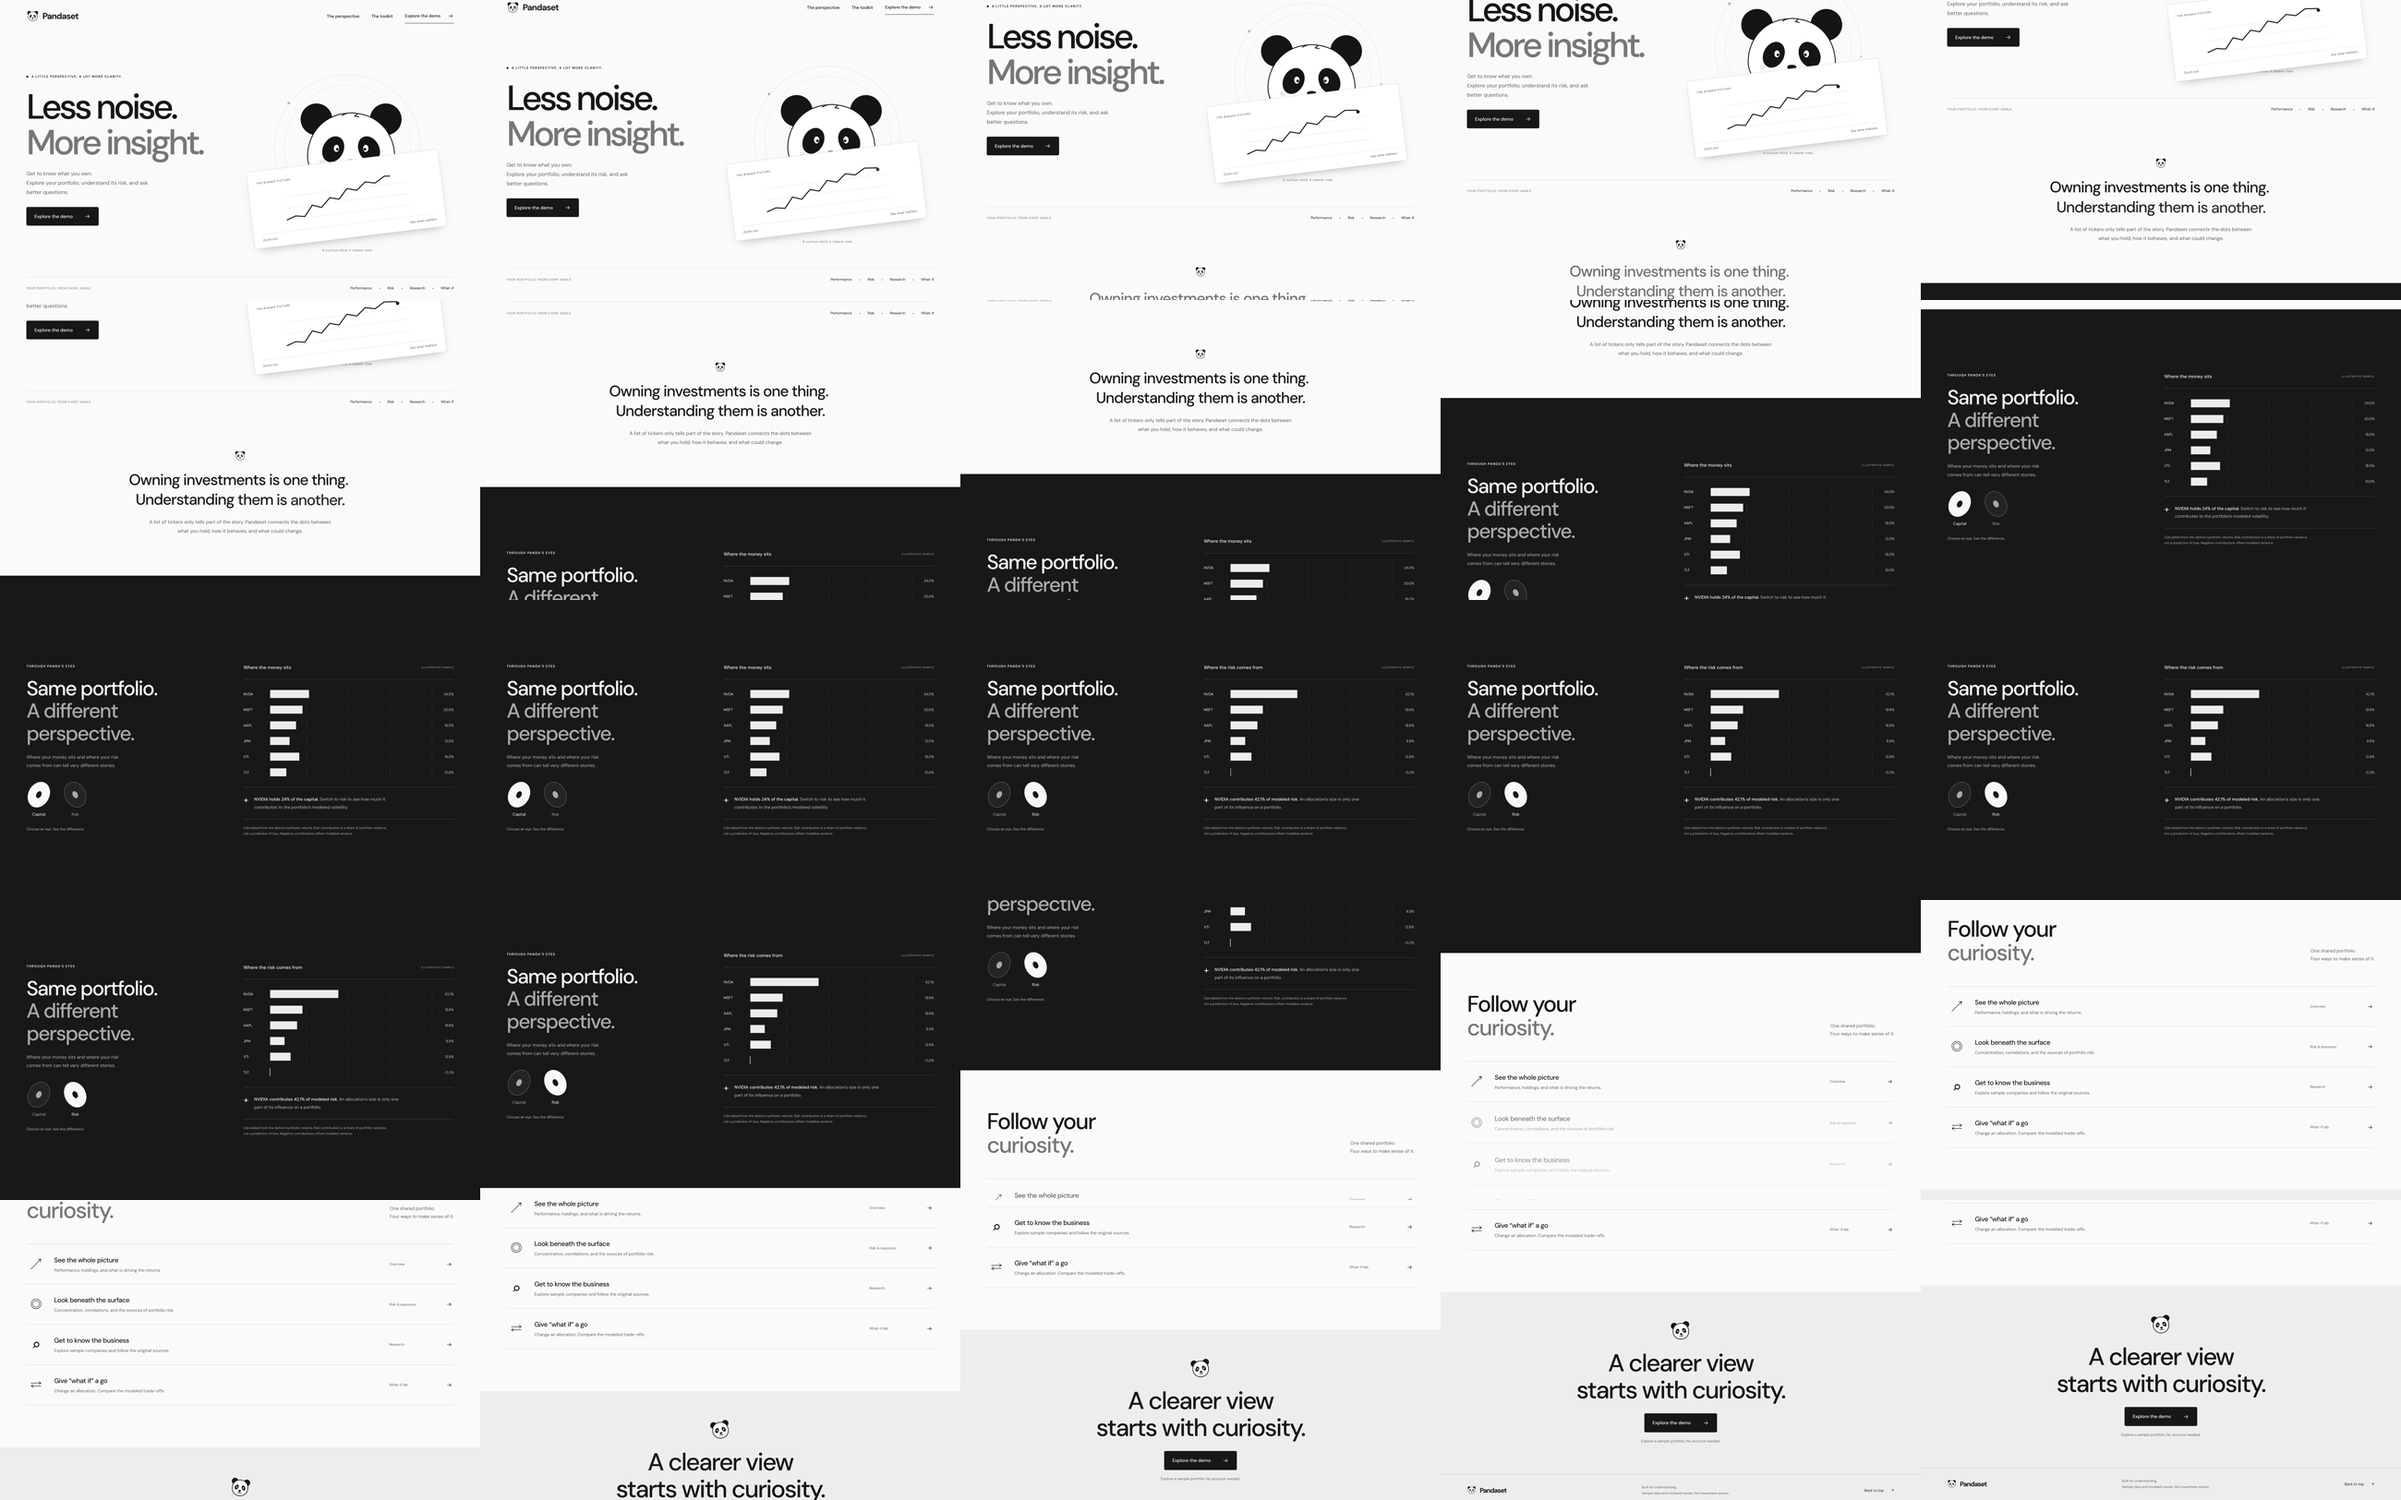
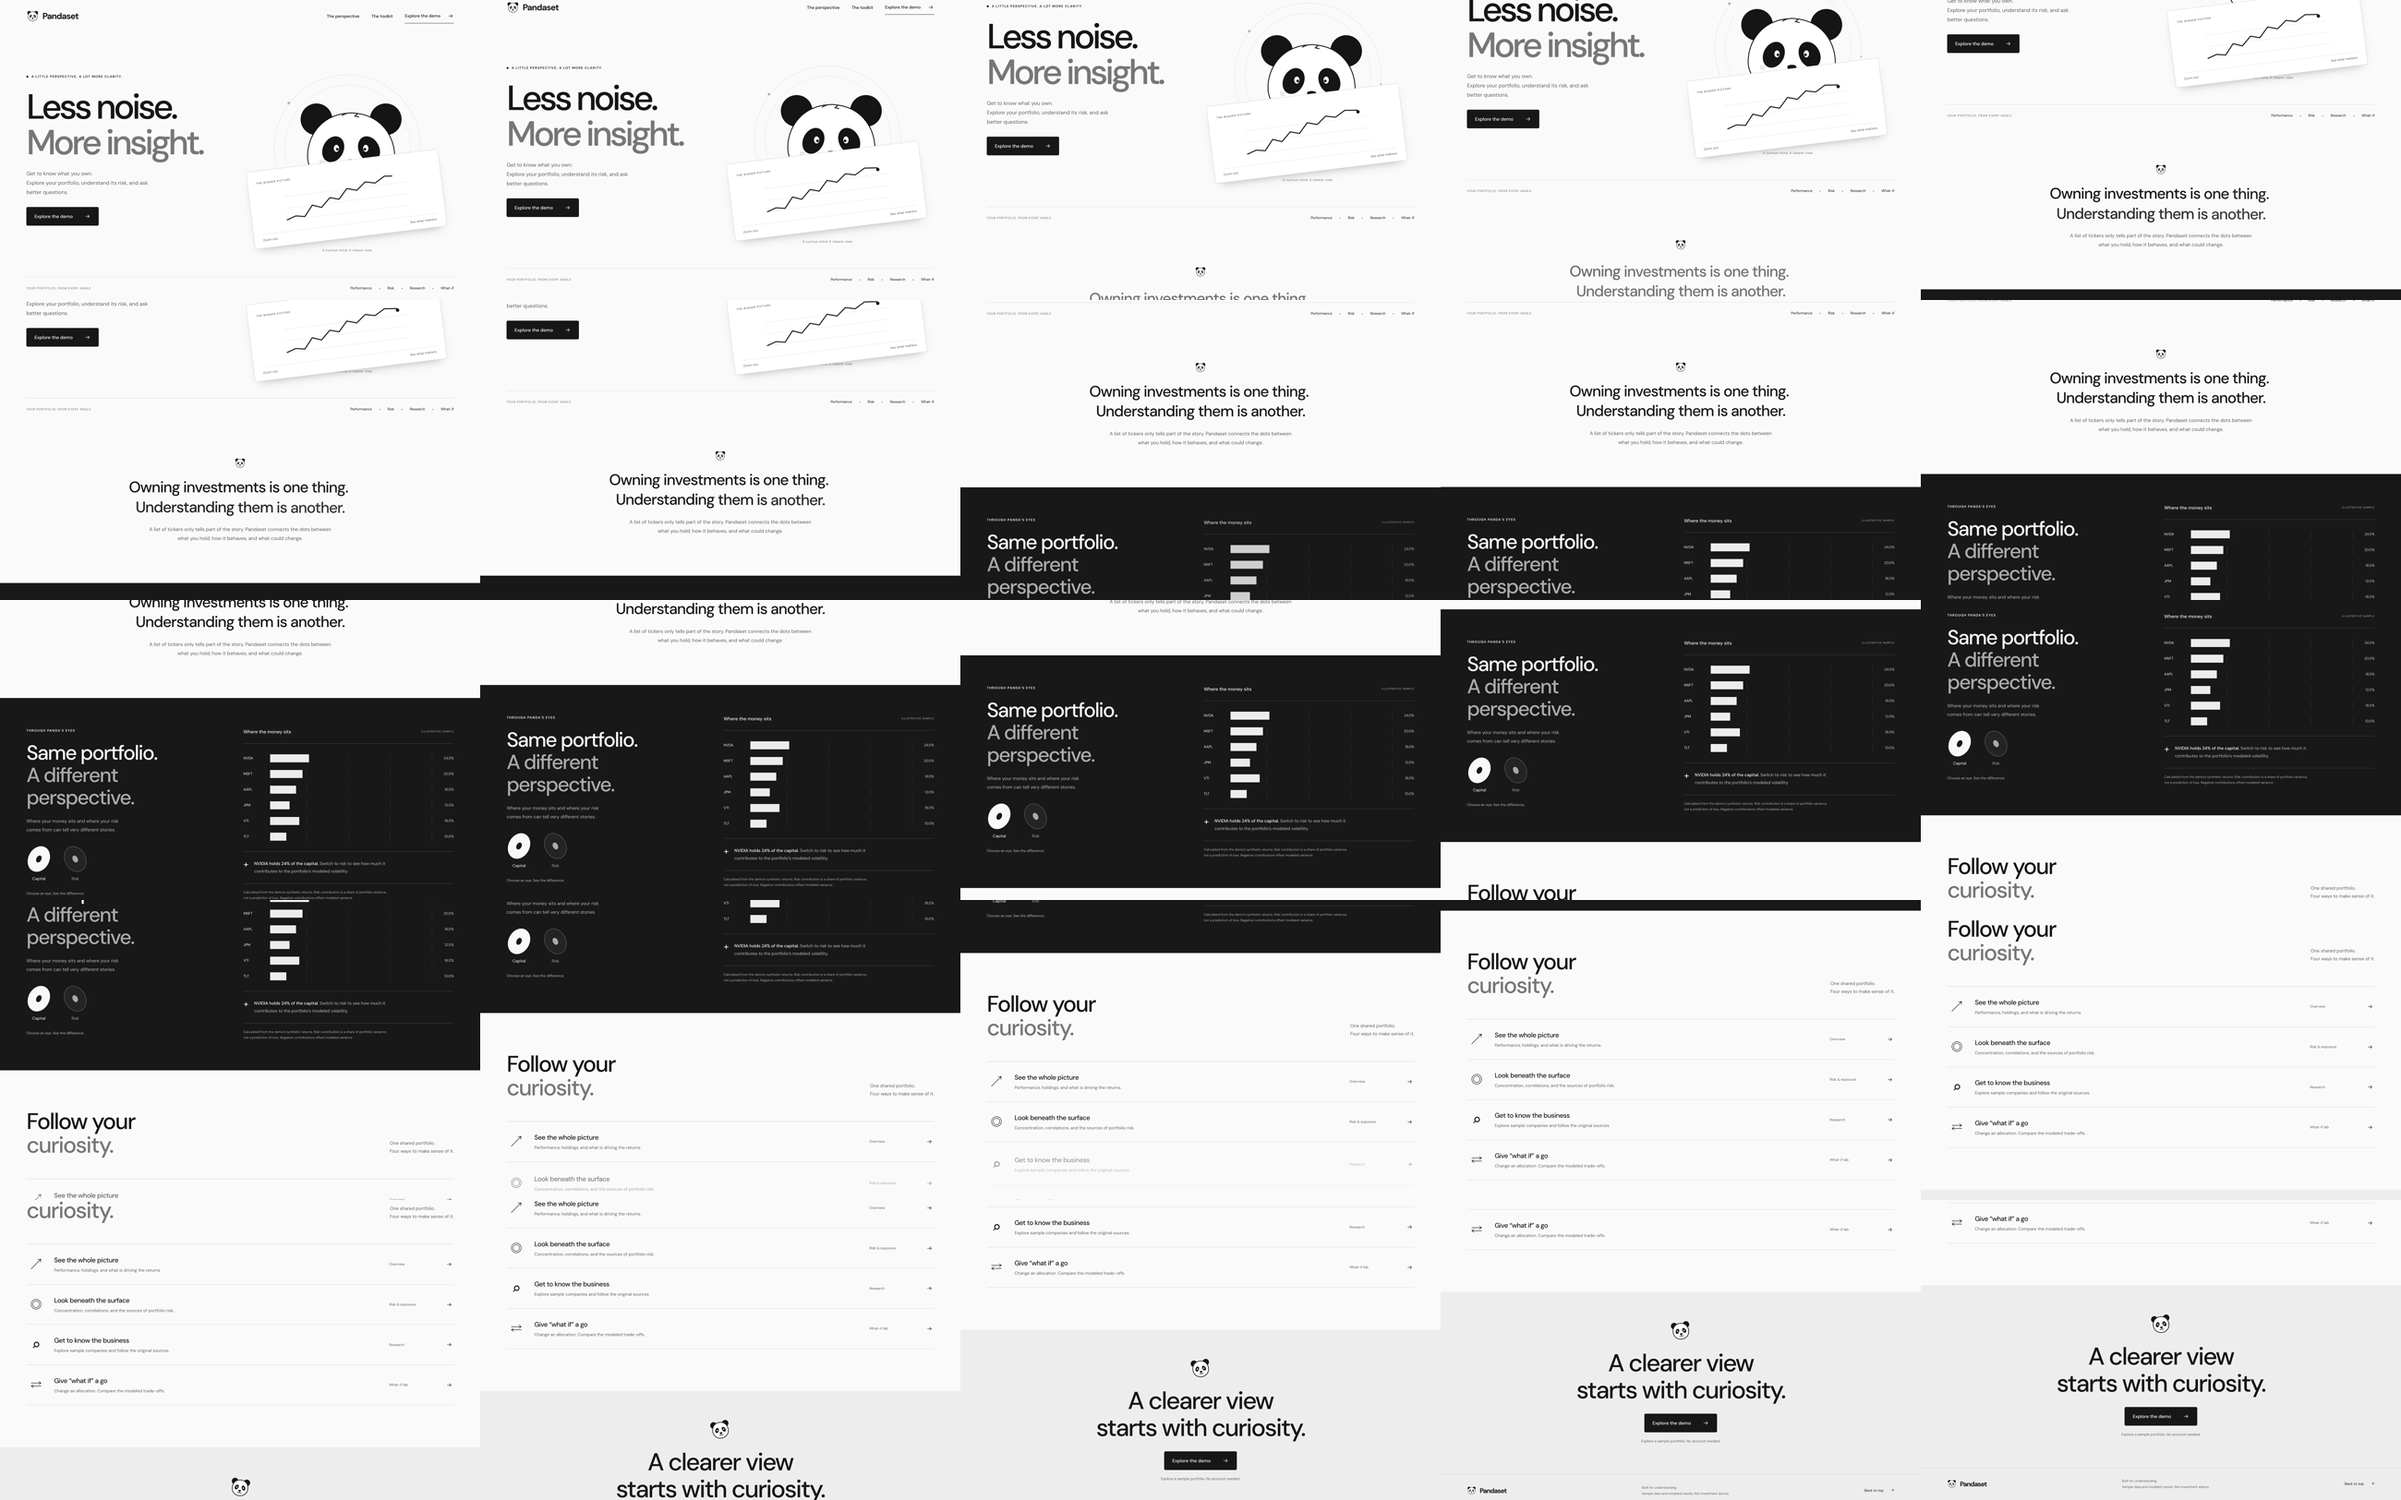
fix: remove sticky landing page scroll

diff --git a/frontend/src/pages/Landing.tsx b/frontend/src/pages/Landing.tsx
@@ -33,7 +33,6 @@ export default function Landing() {
   const root = useRef<HTMLDivElement>(null);
   useLandingMotion(root);
   const mounted = useRef(false);
-  const manualPerspective = useRef(false);
   const [perspective, setPerspective] = useState<"capital" | "risk">("capital");
   const [menuOpen, setMenuOpen] = useState(false);
   useEffect(() => {
@@ -42,33 +41,6 @@ export default function Landing() {
       window.ScrollCraft.mount(root.current);
     }
   }, []);
-  useEffect(() => {
-    const motion = matchMedia("(prefers-reduced-motion: reduce)");
-    let frame = 0;
-    const update = () => {
-      if (manualPerspective.current || motion.matches || innerWidth <= 760)
-        return;
-      cancelAnimationFrame(frame);
-      frame = requestAnimationFrame(() => {
-        const section = document.getElementById("perspective");
-        if (!section) return;
-        const rect = section.getBoundingClientRect();
-        const travel = Math.max(1, rect.height - innerHeight);
-        if (rect.top <= 0 && rect.bottom >= innerHeight) {
-          setPerspective(-rect.top / travel >= 0.4 ? "risk" : "capital");
-        }
-      });
-    };
-    addEventListener("scroll", update, { passive: true });
-    return () => {
-      removeEventListener("scroll", update);
-      cancelAnimationFrame(frame);
-    };
-  }, []);
-  const choosePerspective = (value: "capital" | "risk") => {
-    manualPerspective.current = true;
-    setPerspective(value);
-  };
   const goTo = (id: string) => (event: React.MouseEvent<HTMLAnchorElement>) => {
     event.preventDefault();
     setMenuOpen(false);
@@ -245,11 +217,10 @@ export default function Landing() {
           id="perspective"
           tabIndex={-1}
           className="lp-perspective"
-          data-sc-act="pin"
-          data-sc-span="1.8"
+          data-sc-act="flow"
           aria-labelledby="perspective-heading"
         >
-          <div data-sc-stage className="lp-perspective-stage">
+          <div className="lp-perspective-stage">
             <div className="lp-perspective-inner lp-wrap">
               <div className="lp-perspective-copy">
                 <p className="lp-kicker">THROUGH PANDA’S EYES</p>
@@ -272,7 +243,7 @@ export default function Landing() {
                 >
                   <button
                     aria-pressed={perspective === "capital"}
-                    onClick={() => choosePerspective("capital")}
+                    onClick={() => setPerspective("capital")}
                   >
                     <span className="lp-eye">
                       <i />
@@ -281,7 +252,7 @@ export default function Landing() {
                   </button>
                   <button
                     aria-pressed={perspective === "risk"}
-                    onClick={() => choosePerspective("risk")}
+                    onClick={() => setPerspective("risk")}
                   >
                     <span className="lp-eye">
                       <i />
@@ -293,7 +264,7 @@ export default function Landing() {
                   Choose an eye. See the difference.
                 </p>
               </div>
-              <div className="lp-chart-panel">
+              <div className="lp-chart-panel" data-lp-arrival>
                 <div className="lp-chart-heading">
                   <h3>
                     {perspective === "capital"

diff --git a/frontend/src/styles/landing.css b/frontend/src/styles/landing.css
@@ -408,7 +408,6 @@ a {
 .lp-perspective-stage {
   display: flex;
   align-items: center;
-  overflow: hidden;
 }
 .lp-perspective-inner {
   width: 100%;
@@ -897,14 +896,6 @@ a {
     font-size: 13px;
     line-height: 1.8;
   }
-  .lp-perspective {
-    height: auto !important;
-  }
-  .lp-perspective-stage {
-    position: relative !important;
-    height: auto !important;
-    overflow: visible;
-  }
   .lp-perspective-inner {
     grid-template-columns: 1fr;
     padding-block: 64px;
@@ -1079,13 +1070,6 @@ a {
     transition: none !important;
     animation: none !important;
   }
-  .lp-perspective {
-    height: auto !important;
-  }
-  .lp-perspective-stage {
-    position: relative !important;
-    height: auto !important;
-  }
   .lp-perspective-inner {
     padding-block: 75px;
   }
@@ -1255,5 +1239,20 @@ a {
   .lp-panda-head,
   .lp-panda-gaze {
     transform: none;
+  }
+}
+
+/* Keep the comparison in native document flow; only its chart eases into place. */
+@media (prefers-reduced-motion: no-preference) {
+  .lp-motion-ready .lp-chart-panel[data-lp-arrival] {
+    opacity: 0.7;
+    transform: translateY(24px);
+    transition:
+      transform 800ms cubic-bezier(0.22, 1, 0.36, 1),
+      opacity 650ms ease-out;
+  }
+  .lp-motion-ready .lp-chart-panel.lp-arrived {
+    opacity: 1;
+    transform: translateY(0);
   }
 }

diff --git a/scrollcraft/builds/panda-landing/REPORT.md b/scrollcraft/builds/panda-landing/REPORT.md
@@ -56,3 +56,10 @@ Verification of the final production bundle: all 19 tests, build, formatting, ex
 Visual review: curious → recognition → discovery → confidence → readiness. The new acknowledgement by Panda makes curiosity more personal, while the dark capital/risk section remains the peak. The first motion pass needed no layout repair. Word emphasis uses a visible 0.6 opacity floor and resolves fully before the sentence leaves. The cue-only contrast harness no longer measures that bespoke sentence; its appearance was inspected directly rather than treating the absence of cue warnings as a contrast audit.
 
 Final motion screenshots and the interaction report are in `evidence/motion/`; these supersede the earlier static presentation evidence. Reproduce with `node scrollcraft/builds/panda-landing/verify-motion.mjs` against the production preview. Real-device Safari/iPhone testing remains unverified.
+
+
+## Continuous scrolling correction
+
+The black comparison now stays in native document flow. Removing its sticky stage and extra scroll span eliminates the stop and release at its boundaries. Its chart eases upward into place once, and Capital/Risk changes only through the selectors. This supersedes the earlier pinned comparison and automatic scroll selection described above. No wheel interception or simulated inertia was added; the contrast still gives this section its emphasis.
+
+Verification: all 19 tests, production build, formatting, functional checks, and motion checks passed. The functional check now measures section movement across entry, middle, and exit and verifies that a manual perspective choice persists. Desktop, mobile, and reduced-motion captures each cover 25 scroll positions with no reported dead scroll or errors. All three contact sheets were visually inspected. Latest sheets replace `evidence/motion/*-scroll.png`; `evidence/native-scroll.json` records the updated functional checks. Physical-device Safari testing remains unverified.

diff --git a/scrollcraft/builds/panda-landing/BRIEF.md b/scrollcraft/builds/panda-landing/BRIEF.md
@@ -61,3 +61,7 @@ User: “add some cool animations”, explicitly invoking scroll-craft. The earl
 Feeling before motion: curiosity becomes personal when Panda acknowledges the pointer; recognition stays calm as the explanatory words sharpen; discovery remains the capital-versus-risk peak; confidence builds through a short toolkit sequence; readiness ends with a small panda nod and a held invitation.
 
 Motion score: a single short hero arrival, a left-to-right chart reveal, limited pointer head/eye tracking and paper tilt, scroll-progress word emphasis, staggered toolkit arrivals, and a single closing nod. No indefinite ambient animation, video, new scroll length, or hidden essential controls. The hero chart is decorative artwork, not a new numerical claim. Pointer motion is additive and unavailable on touch; all content remains complete with reduced motion, including preference changes while the page is open. Existing engine files remain byte-identical.
+
+## Continuous scrolling correction
+
+User: “i dont like the way it scrolls make it smoother. especially the black part of the page, it sticks with no smoothness”. Remove the comparison's sticky stage and artificial 1.8-viewport span. All sections use native document flow. Replace its pinned automatic state switch with a gentle, one-time chart entrance; capital/risk selection stays under the visitor's control. The dark section remains the visual peak through contrast, rather than extra scroll time. This explicit pacing correction supersedes the earlier pin/span requirements. No wheel interception or artificial scroll inertia.
